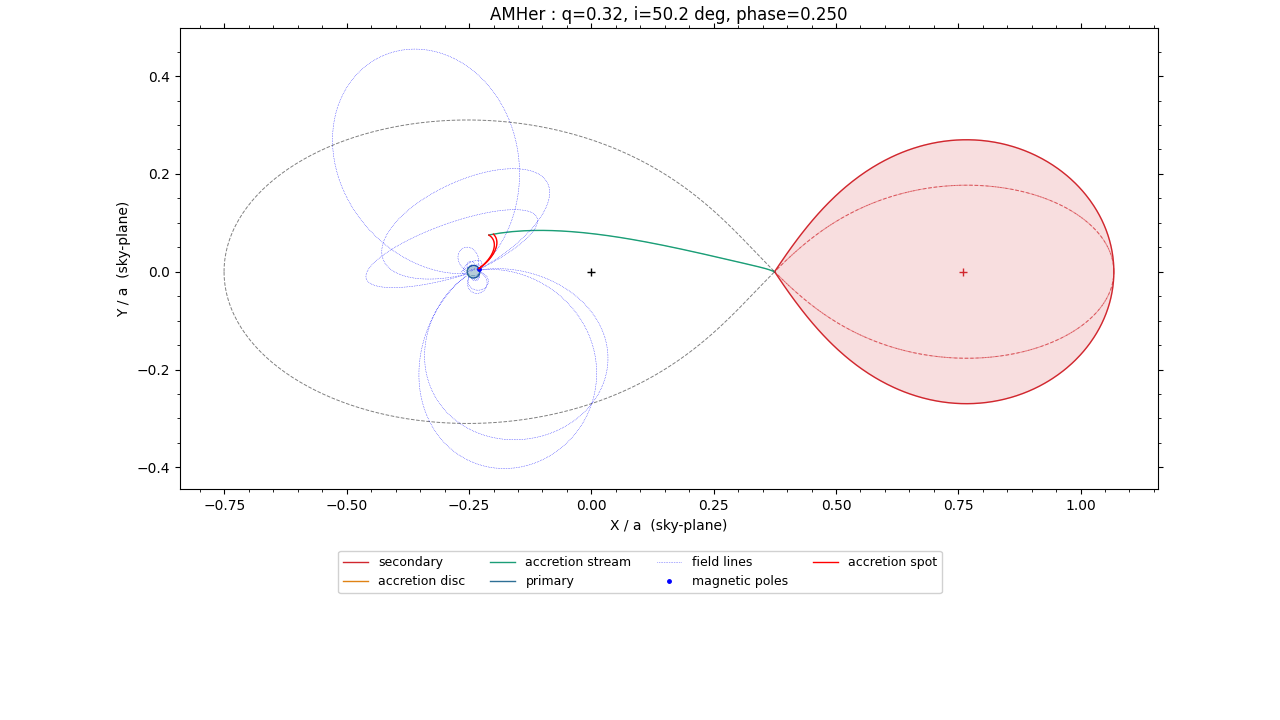
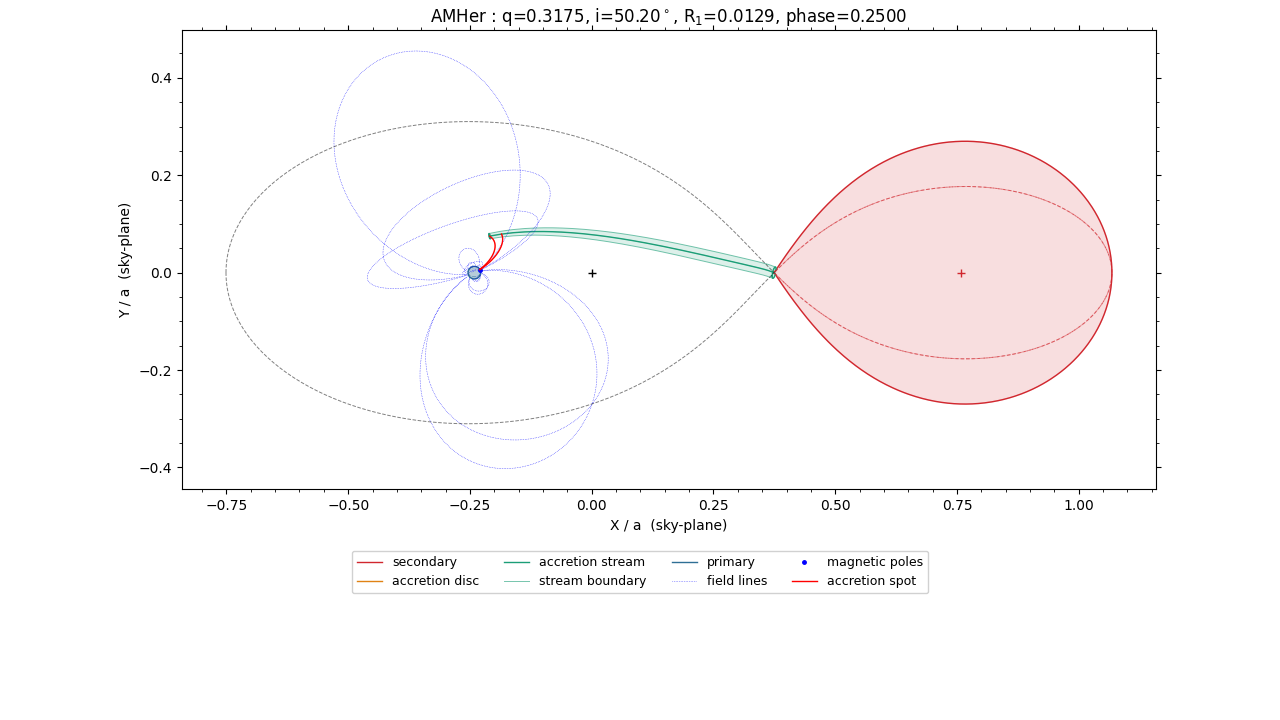
update of plots showing finite stream thickness

diff --git a/README.md b/README.md
@@ -381,12 +381,14 @@ accreting magnetic field lines occur at the end of the stream).
 
 ### EX Hya
 
-![EX Hya outline](examples/outputs/EX_Hya_plot_0.250000.png)
+![EX Hya outline](examples/outputs/EX_Hya_plot_0.650000.png)
 
 An intermediate polar: unlike AM Her, EX Hya has a real accretion disc
 with its own stream-impact hot spot
 *and* a magnetic primary -- this config shows
 the disc/stream geometry together with the dipole field-line loops as a
-cosmetic overlay (no `angle_acc` is set here, so the stream isn't actually
-routed onto the field in this particular default view).
+cosmetic overlay.  With the stream ending at the inner disc radius and appropriate values
+of `angle_acc` set, it looks like the stream is actually
+feeding from the disc, rather than the stream.
+
 
